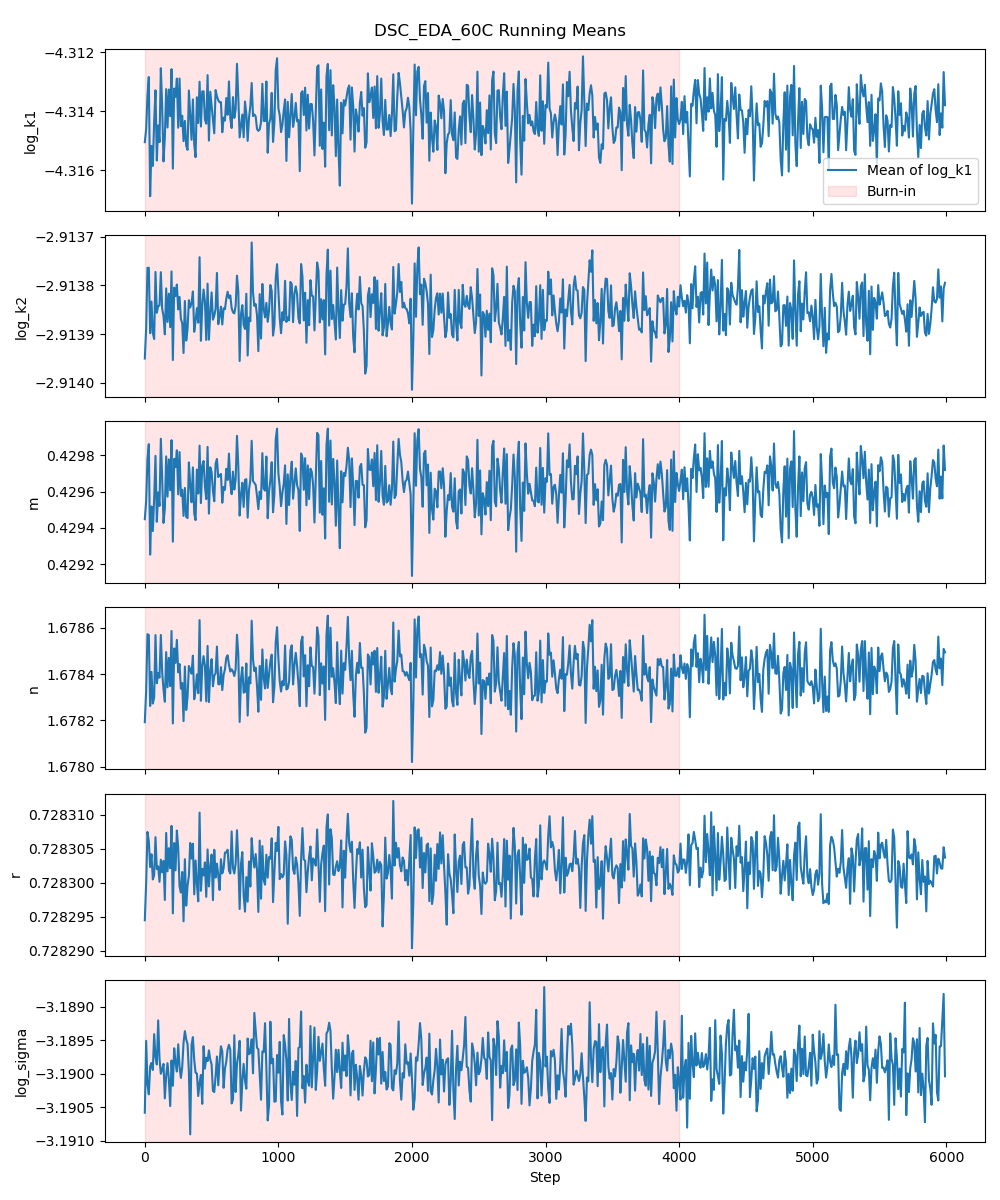
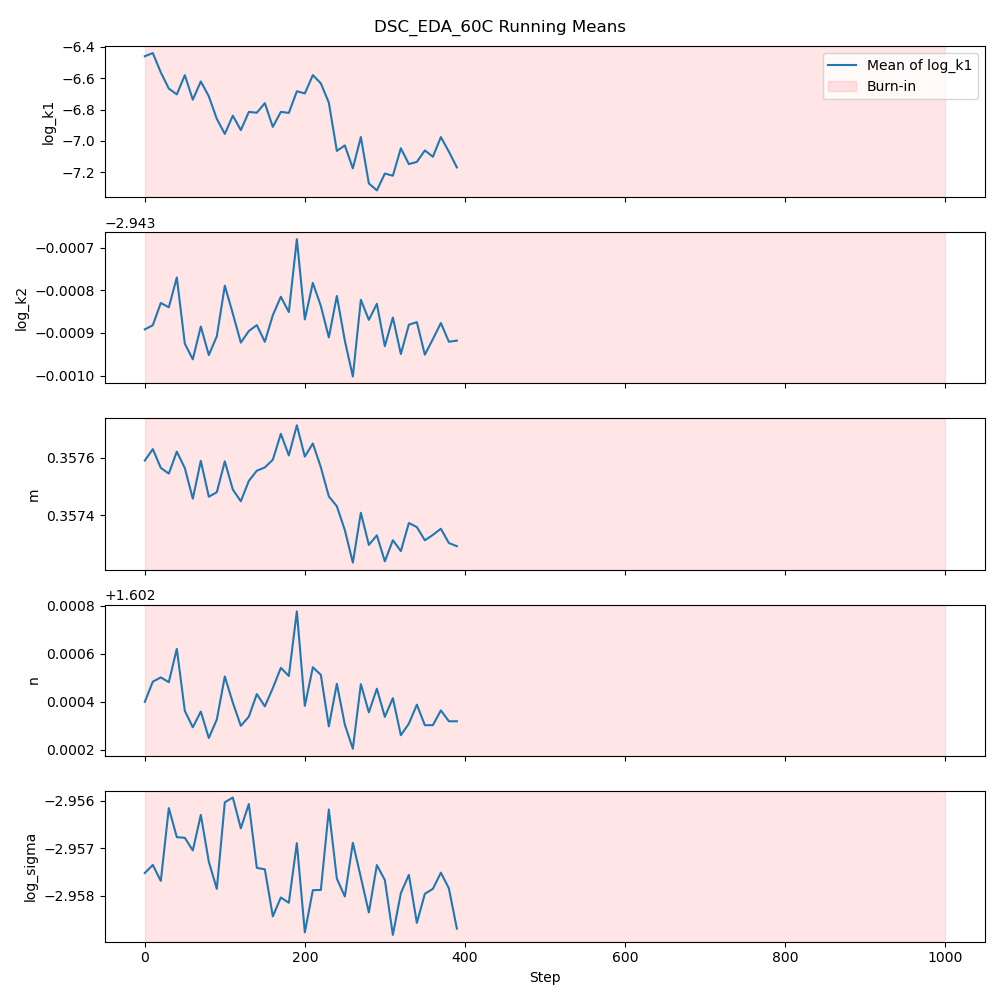
make separate config file to unify run settings, add fixed r option

diff --git a/MCMC_diagnostics.py b/MCMC_diagnostics.py
@@ -1,5 +1,8 @@
 import os
 import numpy as np
+import matplotlib
+matplotlib.use("Agg")  # Non-GUI backend for saving plots to files
+
 import matplotlib.pyplot as plt
 import argparse
 import emcee
@@ -10,7 +13,9 @@ import arviz as az
 from model_module import log_posterior
 from emcee.autocorr import AutocorrError
 
-param_names = ["log_k1", "log_k2", "m", "n", "r", "log_sigma"]
+from mcmc_config import burnin, stride, overlay_n, nwalkers, nsteps
+
+param_names = ["log_k1", "log_k2", "m", "n", "log_sigma"]
 
 csv_path = "diagnostic_plots/diagnostics_summary.csv"
 if not os.path.exists(csv_path):
@@ -45,7 +50,7 @@ def compute_autocorr_stats(sampler):
 
 
 
-def plot_diagnostics(chain, label, param_names=None, outdir="diagnostic_plots", burnin=4000):
+def plot_diagnostics(chain, label, param_names=None, outdir="diagnostic_plots", burnin=burnin):
     os.makedirs(outdir, exist_ok=True)
 
     # Handle correct shape: (nsteps, nwalkers, ndim)
@@ -92,7 +97,7 @@ def plot_diagnostics(chain, label, param_names=None, outdir="diagnostic_plots", 
     fig.savefig(f"{outdir}/{label}_running_means.png")
     plt.close(fig)
 
-def summarize_diagnostics(samples, chain, label, sampler, burnin=4000, csv_path=None):
+def summarize_diagnostics(samples, chain, label, sampler, burnin, csv_path=None):
     print(f"\n📊 Diagnostics for {label}")
     print(f"Shape of chain: {chain.shape} (steps, walkers, params)")
     print(f"🧹 Using burn-in of {burnin} steps")
@@ -114,9 +119,7 @@ def summarize_diagnostics(samples, chain, label, sampler, burnin=4000, csv_path=
     try:
         nsteps, nwalkers, ndim = chain.shape
         print(f"🔍 Interpreting as {nwalkers} walkers over {nsteps} steps, {ndim} parameters")
-
-        arviz_stride = 10
-        thin_chain = chain[burnin::arviz_stride, :, :]  # (steps, walkers, params)
+        thin_chain = chain[burnin::stride, :, :]  # (steps, walkers, params)
         print(f"📏 Thin chain shape: {thin_chain.shape} (steps, walkers, params)")
 
         posterior = {}
@@ -182,18 +185,15 @@ if __name__ == "__main__":
 
         # === Diagnostics on full chain ===
         t1 = time.time()
-        summarize_diagnostics(samples=None, chain=chain, label=label, sampler=sampler, burnin=40000, csv_path=csv_path)
+        summarize_diagnostics(samples=None, chain=chain, label=label, sampler=sampler, burnin=burnin, csv_path=csv_path)
         print(f"✅ Summarized diagnostics in {time.time() - t1:.2f}s")
 
         # === Thinning for ArviZ and plotting ===
-        burnin = 40000
-        thin_by = 10
-        thinned = chain[burnin::thin_by, :, :]  # (thinned_steps, walkers, params)
+        thinned = chain[burnin::stride, :, :]  # (thinned_steps, walkers, params)
         n_steps, n_walkers, n_params = thinned.shape
         print(f"📏 Thinned chain shape: {thinned.shape} (steps, walkers, params)")
 
         # === Reshape for ArviZ ===
-        param_names = ['log_k1', 'log_k2', 'm', 'n', 'r', 'log_sigma']
         posterior_dict = {
             name: thinned[:, :, i].T  # (chains, draws)
             for i, name in enumerate(param_names)

diff --git a/BatchBayesian_plots.py b/BatchBayesian_plots.py
@@ -13,6 +13,8 @@ from datetime import datetime
 import time
 import traceback
 
+from mcmc_config import burnin, stride, overlay_n, nwalkers, nsteps
+
 def solve_model(log_k1, log_k2, m, n, r, t_data, eps=1e-10):
     """
     Plotting-specific model solver. Uses a fixed small a0 and does not depend on a_data.
@@ -173,7 +175,7 @@ def make_summary_grid(label, outdir="fit_plots"):
     fig.savefig(f"{prefix}_summary.png", dpi=300)
     plt.close(fig)
 
-def make_plots(samples, chain, t_data, a_data, label, outdir="fit_plots", overlay_n=200, burnin=40000, stride=10):
+def make_plots(samples, chain, t_data, a_data, label, outdir="fit_plots", overlay_n=overlay_n, burnin=burnin, stride=stride):
     import time  # in case it's not already imported
     os.makedirs(outdir, exist_ok=True)
     start_time = time.time()
@@ -236,8 +238,8 @@ if __name__ == "__main__":
         parser = argparse.ArgumentParser(description="Plot MCMC results from saved .npz files.")
         parser.add_argument("file", nargs="?", default=None,
                             help="Optional path to a single .npz file. If omitted, all *_fitdata.npz files in mcmc_samples/ will be processed.")
-        parser.add_argument("--burnin", type=int, default=40000, help="Burn-in steps to discard")
-        parser.add_argument("--stride", type=int, default=10, help="Thinning stride")
+        parser.add_argument("--burnin", type=int, default=None, help="Burn-in steps to discard")
+        parser.add_argument("--stride", type=int, default=None, help="Thinning stride")
         args = parser.parse_args()
 
         input_dir = "mcmc_samples"

diff --git a/BatchBayesian_fixedr_kuro.py b/BatchBayesian_fixedr_kuro.py
@@ -13,11 +13,9 @@ import pickle
 from numpy import gradient
 import multiprocessing
 from multiprocessing import freeze_support
+from mcmc_config import burnin, stride, overlay_n, nwalkers, nsteps
 
-# Parameters
-nsteps = 100000
-burnin = int(0.2*nsteps)
-nwalkers = 48
+
 # param_names = ['log_k1', 'log_k2', 'm', 'n', 'r', 'log_sigma']
 param_names = ['log_k1', 'log_k2', 'm', 'n', 'log_sigma']
 samples_list = ['EDA', 'DAP', 'DAB']

diff --git a/mcmc_config.py b/mcmc_config.py
@@ -1,0 +1,7 @@
+# mcmc_config.py
+
+burnin = 1000         # number of steps to discard
+stride = 10           # thinning stride for plotting
+overlay_n = 50       # number of posterior samples to overlay
+nwalkers = 16        # number of MCMC walkers
+nsteps = 20000       # total MCMC steps
